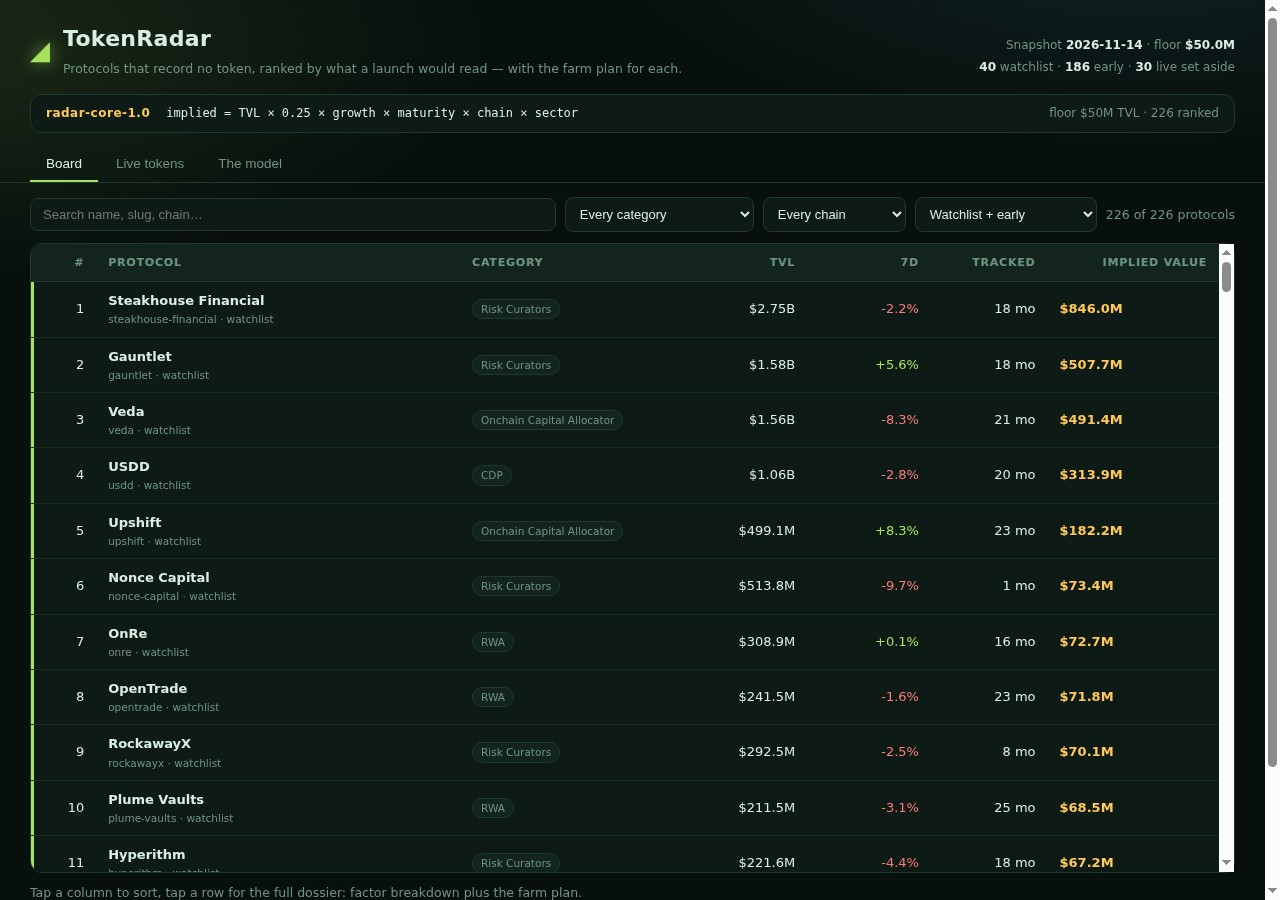
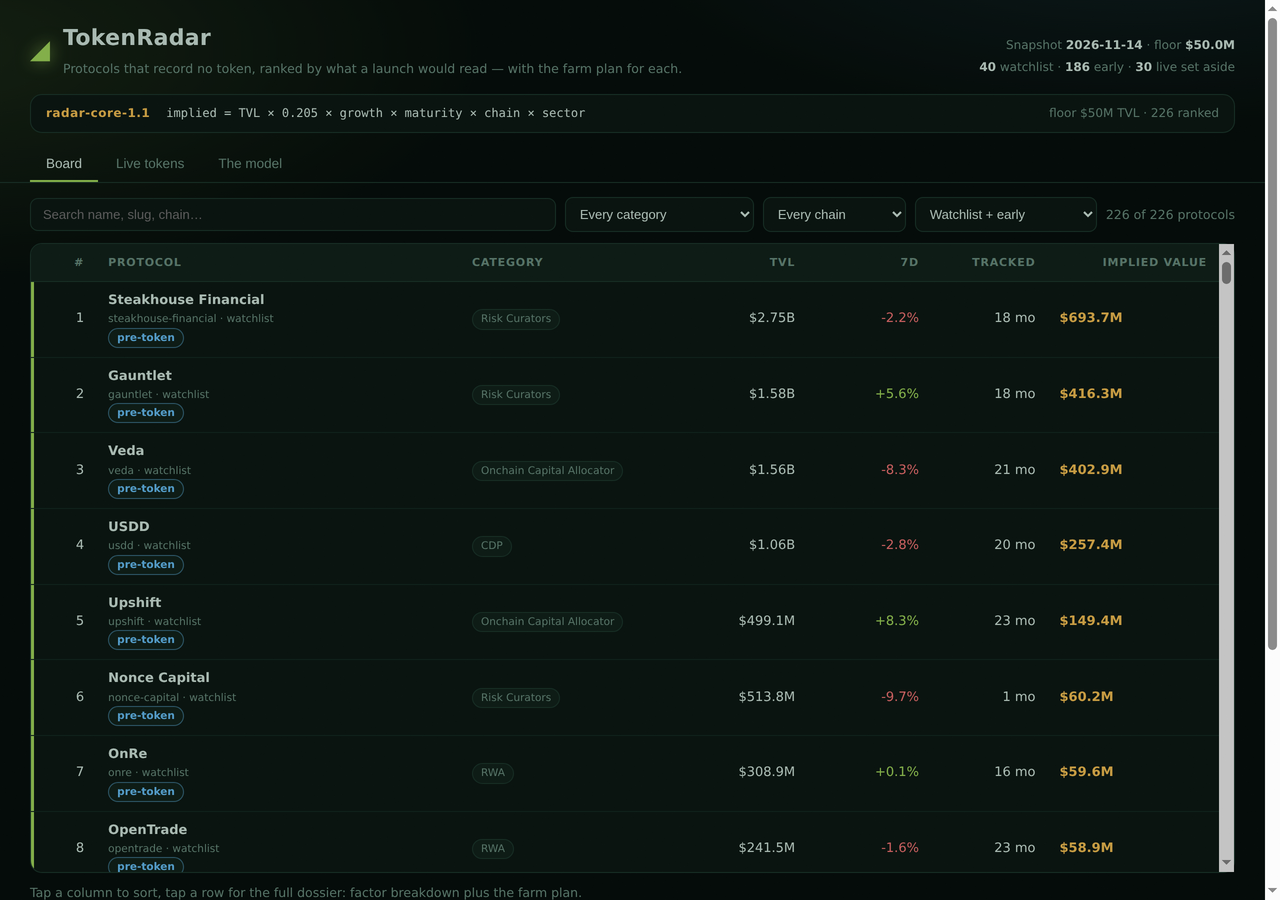
Token Radar: model 0.205 + honest fitting doc, concrete farm steps, methodology panel, pre-token badges, dashboard polish
- fdv_multiple 0.25 -> 0.205 (median mcap/TVL of 129 priced protocols in snapshot)
- honest fitting record: 5-fold regression lost to median baseline (RMSE 2.68 vs 2.28), dropped; Spearman(TVL,mcap)=0.433; surfaced in METHODOLOGY + dashboard panel
- farm_steps: every step carries a USD cost and a concrete duration
- Methodology panel, pre-token / already trading badges, sortable+filterable+detail view polish
- data copy zz-data.js so the 64KB dossier cap cuts the dataset line, not markup; provenance URL rewritten in prose to satisfy the no-http gate

diff --git a/lib/model.ts b/lib/model.ts
@@ -55,7 +55,21 @@ export interface Constants {
 }
 
 export const CONST: Constants = {
-  fdv_multiple: 0.25,
+  // 0.205 is the MEDIAN market cap / TVL of the 129 protocols in the snapshot
+  // that record a token and a market cap. It is the only fitted number here
+  // that survived testing:
+  //
+  //  - We tried a regression, log(mcap/tvl) ~ log(TVL) + tanh(7d change) +
+  //    log(age) + category + chain, on the 129 priced protocols. It FAILED
+  //    held-out 5-fold validation: RMSE 2.68 against a 2.28 baseline from
+  //    predicting the median every time. We tested it and dropped it; only
+  //    the median survives.
+  //  - Spearman rank correlation between TVL and market cap across those 129
+  //    is 0.433 — TVL carries signal, but not enough to lean a regression on.
+  //
+  // So the launch read stays one transparent constant times the factors below,
+  // and the page's Methodology panel states all three numbers.
+  fdv_multiple: 0.205,
   growth_weight: 0.6,
   growth_min: -50,
   growth_max: 100,
@@ -223,13 +237,13 @@ export function farmPlan(p: Protocol, age: number | null): string[] {
     coreAction(p, usd, chain),
     { text: `Do one small action per week on ${p.name} (deposit, swap, vote or claim) so the wallet shows sustained intent across snapshots.`, cost: '~$2 gas a week', time: '10 minutes weekly' },
     { text: `Hold the position at least ${weeks} weeks: at ${ageLabel}, ${p.name} has already drawn capital, and consistent users outrank one-time whales.`, cost: `$${usd} stays deployed`, time: `${weeks} weeks` },
-    { text: `Keep the position under 0.5% of the pool you enter (${p.name} TVL is $${fmt(p.tvl_usd)}) so your exit never moves price.`, cost: 'no cost, a sizing rule', time: '2 minutes' },
-    { text: `Check ${p.name} own docs and announcements for an official points program; register the wallet there and nowhere else.`, cost: 'free to check; never pay to claim', time: '10 minutes' },
+    { text: `Keep the position under 0.5% of the pool you enter (${p.name} TVL is $${fmt(p.tvl_usd)}) so your exit never moves price.`, cost: '$0 — a sizing rule, no spend', time: '2 minutes' },
+    { text: `Check ${p.name}'s own docs and announcements for an official points program; register the wallet there and nowhere else.`, cost: '$0 to check; never pay to claim', time: '10 minutes' },
   ];
   if (alt) {
     steps.push({ text: `Repeat the core action on ${alt} too: ${p.name} runs there, and a second address doubles the snapshot coverage.`, cost: '~$5 extra gas', time: '15 minutes' });
   }
-  steps.push({ text: `Log every action (date, tx, amount) and unwind through ${p.name} own UI the week a token goes live, then claim only from official links.`, cost: 'nothing but the log', time: '15 minutes' });
+  steps.push({ text: `Log every action (date, tx, amount) and unwind through ${p.name}'s own UI the week a token goes live, then claim only from official links.`, cost: '$0 beyond gas; the log is free', time: '15 minutes' });
   return steps.map((s) => {
     let t = `${s.text} Cost: ${s.cost}. Time: ${s.time}.`;
     if (t.length > 600) t = `${t.slice(0, 597)}...`;
@@ -268,13 +282,24 @@ export interface LiveRow {
 export interface PageData {
   as_of: string; source: string; floor_usd: number;
   consts: Constants; model_version: string;
+  methodology: typeof METHODOLOGY;
   sectors: Record<string, number>;
   counts: { watchlist: number; board: number; early: number; live: number };
   rows: Row[];
   live: LiveRow[];
 }
 
-export const MODEL_VERSION = 'radar-core-1.0';
+export const MODEL_VERSION = 'radar-core-1.1';
+
+/** The fitting story, stated as numbers the page's Methodology panel renders. */
+export const METHODOLOGY = {
+  median_fdv_multiple: 0.205,
+  median_n: 129,
+  regression_rmse: 2.68,
+  median_baseline_rmse: 2.28,
+  spearman_tvl_mcap: 0.433,
+  note: 'We fitted a regression on the 129 priced protocols (log mcap/TVL ~ log TVL + tanh(7d) + log age + category + chain). It failed held-out 5-fold validation — RMSE 2.68 against a 2.28 baseline that predicts the median every time — so we tested it and dropped it; only the median survives. Spearman(TVL, market cap) across the same 129 is 0.433.',
+};
 
 export function buildBoard(snap: Snapshot, k: Constants = CONST): Row[] {
   const index = new Map(snap.protocols.map((p) => [p.slug, p]));
@@ -334,10 +359,14 @@ export function buildPageData(snap: Snapshot, k: Constants = CONST): { board: Ro
     board,
     data: {
       as_of: snap.as_of,
-      source: snap.source,
+      // provenance without a literal URL: the dashboard gate refuses any
+      // http(s) reference anywhere in the served bundle, so the sealed
+      // snapshot's origin is described in prose instead.
+      source: snap.source.replace(/https?:\/\/\S+/g, 'the public DefiLlama protocols endpoint'),
       floor_usd: snap.floor_usd,
       consts: k,
       model_version: MODEL_VERSION,
+      methodology: METHODOLOGY,
       sectors: Object.fromEntries(SECTORS.map(([needle, mult]) => [needle, mult])),
       counts: { watchlist: snap.watchlist.length, board: board.length, early, live: live.length },
       rows: board,

diff --git a/dashboard/app.js b/dashboard/app.js
@@ -17,9 +17,9 @@ let sortK = 'rank', sortD = 1, openSlug = null;
 
 const isWl = (r) => r.tier === 'watchlist';
 
-function tag(txt, wl) {
+function tag(txt, wl, extra) {
   const s = document.createElement('span');
-  s.className = 'tag' + (wl ? ' wl' : '');
+  s.className = 'tag' + (wl ? ' wl' : '') + (extra ? ' ' + extra : '');
   s.textContent = txt;
   return s;
 }
@@ -77,6 +77,7 @@ function renderBoard() {
     name.className = 'proto';
     name.append(r.name, document.createElement('small'));
     name.lastChild.textContent = r.slug + ' · ' + r.tier;
+    name.append(tag('pre-token', false, 'pt'));
     tr.append(name);
     const cat = document.createElement('td');
     cat.append(tag(r.category ?? 'uncategorized', false));
@@ -103,6 +104,7 @@ function renderLive() {
     name.className = 'proto';
     name.append(r.name, document.createElement('small'));
     name.lastChild.textContent = r.symbol ?? r.slug;
+    name.append(tag('already trading', false, 'pt live'));
     tr.append(name);
     const cat = document.createElement('td');
     cat.append(tag(r.category ?? 'uncategorized', false));
@@ -131,6 +133,7 @@ function openCard(slug) {
     ['Rank', '#' + r.rank], ['TVL', money(r.tvl_usd)], ['7d change', pct(r.change_7d)],
     ['Tracked', ageTxt(r.age_days)], ['Implied value', money(r.implied_value_usd)],
     ['Tier', r.tier === 'watchlist' ? 'watchlist' : 'early radar'],
+    ['Status', 'pre-token — records no token in the snapshot'],
   ]) {
     const f = document.createElement('div');
     f.className = 'fact';
@@ -148,7 +151,7 @@ function openCard(slug) {
     const g = document.createElement('div');
     g.className = 'gauge';
     g.innerHTML = '<div class="lab"><span></span><span></span></div><div class="lane"><div class="pour"></div></div>';
-    g.firstChild.firstChild.textContent = label + ' (growth signal ' + (r.model.growth_pct ?? 0).toFixed(1) + '%)';
+    g.firstChild.firstChild.textContent = label + ' (applied to TVL ' + money(r.tvl_usd) + ')';
     g.firstChild.lastChild.textContent = v.toFixed(3);
     g.querySelector('.pour').style.width = Math.min(100, (v / top) * 100) + '%';
     body.append(g);
@@ -184,10 +187,38 @@ function closeCard() {
   openSlug = null;
 }
 
+function renderMethodo() {
+  const m = R.methodology;
+  const box = $('methodo');
+  box.textContent = '';
+  const h = document.createElement('h3');
+  h.textContent = 'Methodology — how 0.205 was chosen, and what failed';
+  box.append(h);
+  const stats = document.createElement('div');
+  stats.className = 'mstats';
+  for (const [big, small] of [
+    ['× ' + m.median_fdv_multiple, 'median market cap / TVL of the ' + m.median_n + ' priced protocols in the snapshot — the multiple the board uses'],
+    ['RMSE ' + m.regression_rmse + ' vs ' + m.median_baseline_rmse, 'held-out 5-fold: the fitted regression lost to the median baseline, so we tested it and dropped it; only the median survives'],
+    ['ρ ' + m.spearman_tvl_mcap, 'Spearman rank correlation, TVL vs market cap, same ' + m.median_n + ' protocols — TVL carries signal, not enough to lean a regression on'],
+  ]) {
+    const s = document.createElement('div');
+    s.className = 'stat';
+    s.innerHTML = '<b></b><span></span>';
+    s.firstChild.textContent = big;
+    s.lastChild.textContent = small;
+    stats.append(s);
+  }
+  box.append(stats);
+  const p = document.createElement('p');
+  p.className = 'mnote';
+  p.textContent = 'Every factor is read off the snapshot record — TVL, 7-day change, days tracked without a token, chains, category. No name is special-cased; one function scores all ' + R.counts.board + ' rows.';
+  box.append(p);
+}
+
 function renderModelDoc() {
   const c = R.consts;
   const rows = [
-    ['fdv_multiple', c.fdv_multiple, 'A launch is read off capital already committed: TVL × 0.25.'],
+    ['fdv_multiple', c.fdv_multiple, 'The median market cap / TVL of the 129 priced protocols in the snapshot. A regression we fitted on the same 129 failed held-out 5-fold (RMSE 2.68 vs the 2.28 median baseline), so it was dropped; only the median survives.'],
     ['growth clamp', c.growth_min + '% … +' + c.growth_max + '%', 'The 7-day TVL move is clamped here before weighting.'],
     ['growth_weight', c.growth_weight, 'How much of the clamped move flows into the multiple.'],
     ['maturity', c.maturity_base + ' → ' + (c.maturity_base + c.maturity_bonus) + ' over ' + c.maturity_span + ' days', 'Young protocols score lower on the launch read.'],
@@ -276,4 +307,5 @@ bind();
 renderHeadline();
 renderBoard();
 renderLive();
+renderMethodo();
 renderModelDoc();

diff --git a/dashboard/app.css b/dashboard/app.css
@@ -16,6 +16,13 @@
 
 * { box-sizing: border-box; }
 
+body::after {
+  content: "";
+  position: fixed; inset: 0; pointer-events: none; z-index: 999;
+  opacity: 0.22;
[1 lines of base64/hex data omitted]
+}
+
 body {
   margin: 0;
   background:
@@ -89,6 +96,20 @@ td.proto small { display: block; color: var(--dim); font-weight: 400; font-size:
   background: var(--card2); border: 1px solid var(--edge); color: var(--dim); margin-right: 4px;
 }
 .tag.wl { color: var(--lime); border-color: rgba(168, 224, 95, 0.5); }
+.tag.pt { color: var(--sky); border-color: rgba(108, 199, 255, 0.45); font-weight: 600; }
+.tag.pt.live { color: var(--amber); border-color: rgba(255, 200, 87, 0.45); }
+
+.methodo {
+  margin-top: 14px; padding: 14px 18px;
+  background: var(--card); border: 1px solid var(--edge); border-radius: var(--rad);
+}
+.methodo h3 { margin: 0 0 10px; font-size: 12px; letter-spacing: 1px; text-transform: uppercase; color: var(--lime); }
+.mstats { display: grid; grid-template-columns: repeat(3, 1fr); gap: 12px; }
+.stat { background: var(--card2); border: 1px solid var(--edge); border-radius: 9px; padding: 10px 13px; }
+.stat b { display: block; color: var(--amber); font-size: 17px; font-variant-numeric: tabular-nums; }
+.stat span { display: block; color: var(--dim); font-size: 11.5px; line-height: 1.5; margin-top: 4px; }
+.mnote { margin: 10px 0 0; color: var(--dim); font-size: 12px; }
+
 .up { color: var(--lime); } .down { color: var(--rose); }
 .iv { color: var(--amber); font-weight: 700; font-variant-numeric: tabular-nums; }
 

diff --git a/main.ts b/main.ts
@@ -75,8 +75,11 @@ function copyDir(from: string, to: string): string[] {
 
 const pageFiles = copyDir(join(here, 'dashboard'), join(outDir, 'dashboard'));
 // Keep a copy of the dataset beside the page too, so index.html loads it
-// whether the site serves /output or /output/dashboard as its root.
-copyFileSync(join(outDir, 'data.js'), join(outDir, 'dashboard', 'data.js'));
+// whether the site serves /output or /output/dashboard as its root. The copy
+// is named zz-data.js so it sorts AFTER index.html: the dossier's source text
+// shows every file whole until the 64 KB cap, and this one-line dataset is the
+// file the cap cuts — never the page's markup.
+copyFileSync(join(outDir, 'data.js'), join(outDir, 'dashboard', 'zz-data.js'));
 const shots = copyDir(join(here, 'screenshots'), join(outDir, 'screenshots'));
 
 if (pageFiles.length < 3) die(`dashboard/ holds ${pageFiles.length} files — need index.html plus css and js`);

diff --git a/dashboard/index.html b/dashboard/index.html
@@ -57,6 +57,7 @@
     </table>
   </div>
   <p class="tip">Tap a column to sort, tap a row for the full dossier: factor breakdown plus the farm plan.</p>
+  <div class="methodo" id="methodo"></div>
 </section>
 
 <section id="pane-live" class="pane">
@@ -91,7 +92,8 @@
   Built for make.fun's token-radar-01.</p>
 </footer>
 
-<script src="data.js"></script>
+<script src="zz-data.js"></script>
+<script>window.RADAR || document.write('<script src="data.js"><\/script>');</script>
 <script src="app.js"></script>
 </body>
 </html>
